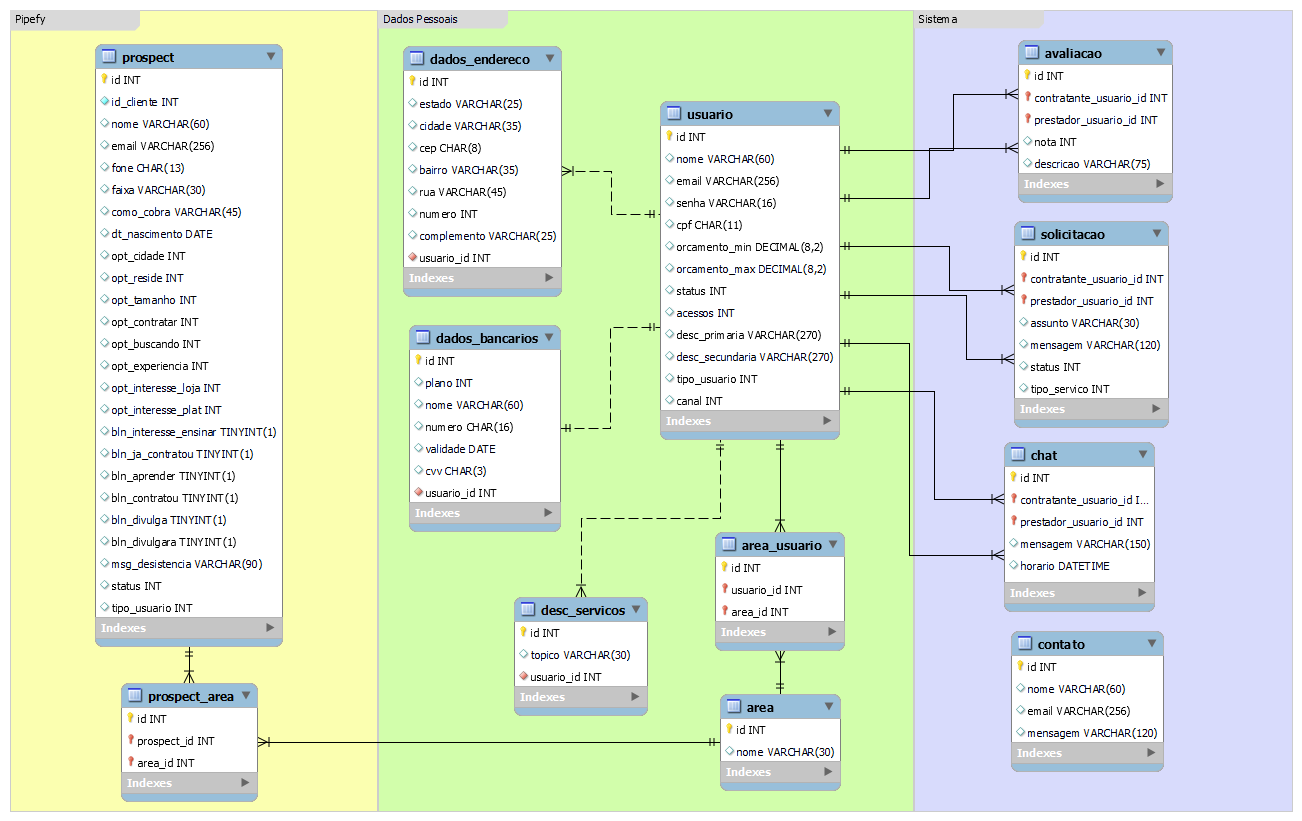
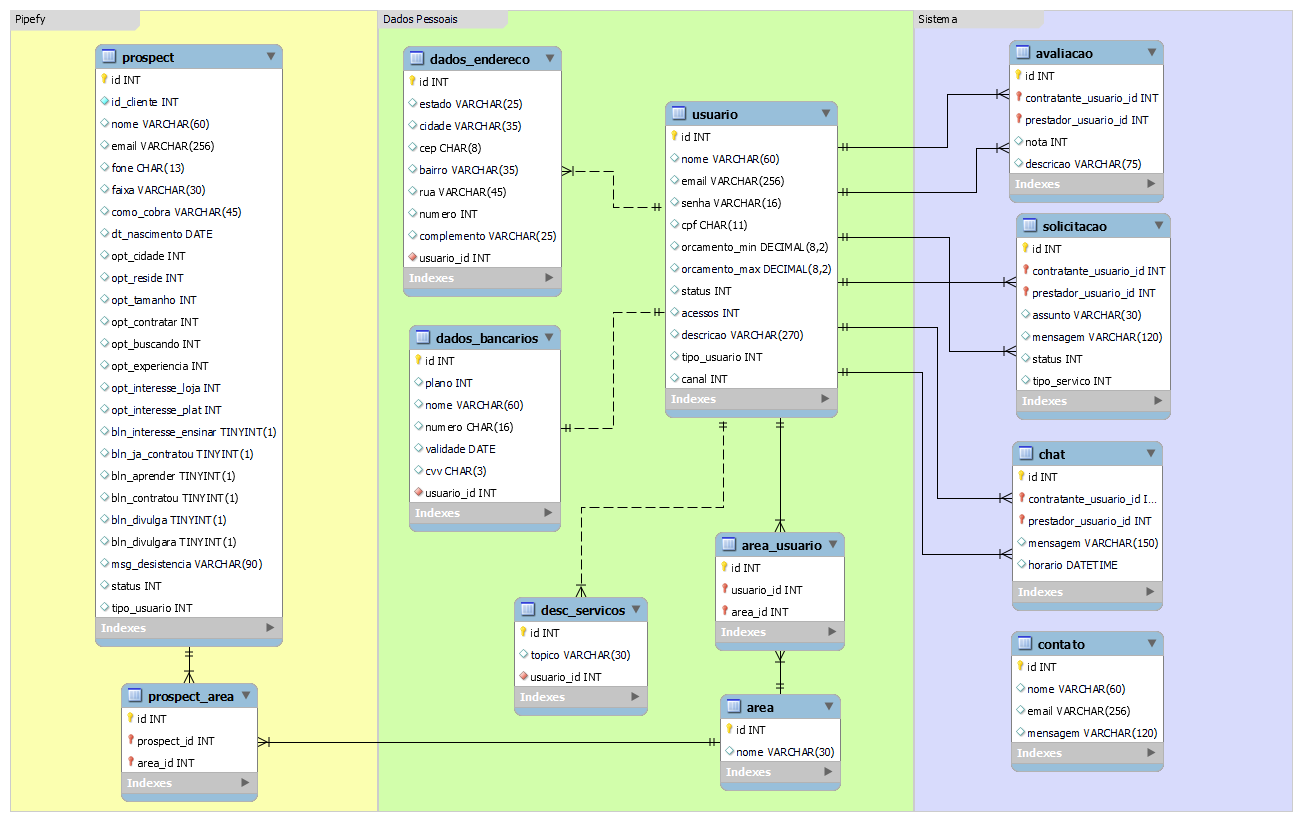
novo banco

diff --git a/restApi-oficial/src/main/kotlin/manuall/restApioficial/models/Prospect.kt b/restApi-oficial/src/main/kotlin/manuall/restApioficial/models/Prospect.kt
@@ -1,0 +1,80 @@
+package manuall.restApioficial.models
+
+import java.util.Date
+import javax.persistence.*
+
+@Entity
+@Table(name = "prospect")
+data class Prospect (
+
+        @field:Id
+        @field:GeneratedValue(strategy = GenerationType.IDENTITY)
+        @Column(name = "id")
+        val id:Int,
+
+        @Column(name = "id_cliente")
+        val idCliente:Int,
+
+        @Column(name = "nome", length = 60)
+        val nome:String,
+
+        @Column(name = "email", length = 256)
+        val email:String,
+
+        @Column(name = "fone", length = 13)
+        val fone:String,
+
+        @Column(name = "como_cobra", length = 45)
+        val comoCobra:String,
+
+        @Column(name = "dt_nascimento")
+        val dtNascimento:Date,
+
+        @Column(name = "opt_reside")
+        val optReside:Int,
+
+        @Column(name = "opt_tamanho")
+        val optTamanho:Int,
+
+        @Column(name = "opt_contratar")
+        val optContratar:Int,
+
+        @Column(name = "opt_buscando")
+        val optBuscando:Int,
+
+        @Column(name = "opt_experiencia")
+        val optExperiencia:Int,
+
+        @Column(name = "opt_interesse_loja")
+        val optInteresseLoja:Int,
+
+        @Column(name = "opt_interesse_plat")
+        val optInteressePlat:Int,
+
+        @Column(name = "bln_interesse_ensinar")
+        val blnInteresseEnsinar:Boolean,
+
+        @Column(name = "bln_ja_contratou")
+        val blnJaContratou:Boolean,
+
+        @Column(name = "bln_aprender")
+        val blnAprender:Boolean,
+
+        @Column(name = "bln_contratou")
+        val blnContratou:Boolean,
+
+        @Column(name = "bln_divulga")
+        val blnDivulga:Boolean,
+
+        @Column(name = "bln_divulgara")
+        val blnDivulgara:Boolean,
+
+        @Column(name = "msg_desistencia", length = 90)
+        val msgDesistencia:String,
+
+        @Column(name = "status")
+        val status:Int,
+
+        @Column(name = "tipo_usuario")
+        val tipoUsuario:Int,
+)

diff --git a/restApi-oficial/src/main/kotlin/manuall/restApioficial/controllers/UsuarioController.kt b/restApi-oficial/src/main/kotlin/manuall/restApioficial/controllers/UsuarioController.kt
@@ -9,7 +9,6 @@ import org.springframework.http.ResponseEntity
 import org.springframework.web.bind.annotation.*
 import javax.transaction.Transactional
 
-
 @CrossOrigin("http://localhost:3000")
 @RestController
 @RequestMapping("/usuarios")
@@ -39,7 +38,7 @@ class UsuarioController(
     fun atualizarSenha(@RequestBody alterSenhaRequest: AlterSenhaRequest): ResponseEntity<Usuario?> {
         val usuario: Usuario =
             usuarioRepository.findById(alterSenhaRequest.id).orElseThrow()
-        usuario.nome = alterSenhaRequest.senha
+        usuario.senha = alterSenhaRequest.senha
         return ResponseEntity.status(200).body(usuarioRepository.save(usuario))
     }
 
@@ -47,8 +46,7 @@ class UsuarioController(
     fun atualizarDesc(@RequestBody alterDescRequest: AlterDescRequest): ResponseEntity<Usuario?> {
         val usuario: Usuario =
             usuarioRepository.findById(alterDescRequest.id).orElseThrow()
-        usuario.nome = alterDescRequest.desc_primaria
-        usuario.nome = alterDescRequest.desc_secundaria
+        usuario.descricao = alterDescRequest.descricao
         return ResponseEntity.status(200).body(usuarioRepository.save(usuario))
     }
 

diff --git a/restApi-oficial/src/main/kotlin/manuall/restApioficial/models/Usuario.kt b/restApi-oficial/src/main/kotlin/manuall/restApioficial/models/Usuario.kt
@@ -12,13 +12,13 @@ data class Usuario (
     var id:Int,
 
     @Column(name = "nome", length = 60)
-    var nome:String,
+    val nome:String,
 
     @Column(name = "email", length = 256)
     val email:String,
 
     @Column(name = "senha", length = 16)
-    val senha:String,
+    var senha:String,
 
     @Column(name = "cpf", length = 11)
     val cpf:String,
@@ -35,12 +35,12 @@ data class Usuario (
     @Column(name = "acessos")
     val acessos:Int,
 
-    @Column(name = "desc_primaria", length = 270)
-    val descPrimaria:String,
-
-    @Column(name = "desc_secundaria", length = 270)
-    val descSecundaria:String,
+    @Column(name = "descricao", length = 270)
+    var descricao:String,
 
     @Column(name = "tipo_usuario")
-    val tipoUsuario:Int
+    val tipoUsuario:Int,
+
+    @Column(name = "canal")
+    val canal:Int
 )

diff --git a/restApi-oficial/src/main/kotlin/manuall/restApioficial/controllers/DescServicosController.kt b/restApi-oficial/src/main/kotlin/manuall/restApioficial/controllers/DescServicosController.kt
@@ -6,12 +6,12 @@ import org.springframework.web.bind.annotation.*
 
 @CrossOrigin("http://localhost:3000")
 @RestController
-@RequestMapping("/descservicos")
-class DescServicosController
-    (val DescServicosRepository: DescServicosRepository)
-{
+@RequestMapping("/descServicos")
+class DescServicosController(
+        val descServicosRepository: DescServicosRepository
+) {
     @GetMapping("/{id}")
     fun buscarDescServicosPorId(@PathVariable id: Int): DescServicos? {
-        return DescServicosRepository.findById(id).orElseThrow()
+        return descServicosRepository.findById(id).orElseThrow()
     }
 }

diff --git a/restApi-oficial/src/main/kotlin/manuall/restApioficial/controllers/AreaUsuarioController.kt b/restApi-oficial/src/main/kotlin/manuall/restApioficial/controllers/AreaUsuarioController.kt
@@ -7,11 +7,11 @@ import org.springframework.web.bind.annotation.*
 @CrossOrigin("http://localhost:3000")
 @RestController
 @RequestMapping("/areausuario")
-class AreaUsuarioController
-    (val AreaUsuarioRepository: AreaUsuarioRepository)
-{
+class AreaUsuarioController (
+        val areaUsuarioRepository: AreaUsuarioRepository
+) {
     @GetMapping("/{id}")
     fun buscarAreaUsuarioPorId(@PathVariable id: Int): AreaUsuario? {
-        return AreaUsuarioRepository.findById(id).orElseThrow()
+        return areaUsuarioRepository.findById(id).orElseThrow()
     }
 }

diff --git a/restApi-oficial/src/main/kotlin/manuall/restApioficial/controllers/DadosBancariosController.kt b/restApi-oficial/src/main/kotlin/manuall/restApioficial/controllers/DadosBancariosController.kt
@@ -6,10 +6,10 @@ import org.springframework.web.bind.annotation.*
 
 @CrossOrigin("http://localhost:3000")
 @RestController
-@RequestMapping("/dadosbancarios")
-class DadosBancariosController
-    (val dadosBancariosRepository: DadosBancariosRepository)
-{
+@RequestMapping("/dadosBancarios")
+class DadosBancariosController(
+        val dadosBancariosRepository: DadosBancariosRepository
+) {
     @GetMapping("/{id}")
     fun buscarDadosBancariosPorId(@PathVariable id: Int): DadosBancarios? {
         return dadosBancariosRepository.findById(id).orElseThrow()

diff --git a/restApi-oficial/src/main/kotlin/manuall/restApioficial/controllers/DadosEnderecoController.kt b/restApi-oficial/src/main/kotlin/manuall/restApioficial/controllers/DadosEnderecoController.kt
@@ -6,10 +6,10 @@ import org.springframework.web.bind.annotation.*
 
 @CrossOrigin("http://localhost:3000")
 @RestController
-@RequestMapping("/dadosendereco")
-class DadosEnderecoController
-    (val dadosEnderecoRepository: DadosEnderecoRepository)
-{
+@RequestMapping("/dadosEndereco")
+class DadosEnderecoController(
+        val dadosEnderecoRepository: DadosEnderecoRepository
+) {
     @GetMapping("/{id}")
     fun buscarDadosEnderecoPorId(@PathVariable id: Int): DadosEndereco? {
         return dadosEnderecoRepository.findById(id).orElseThrow()

diff --git a/restApi-oficial/src/main/kotlin/manuall/restApioficial/models/Chat.kt b/restApi-oficial/src/main/kotlin/manuall/restApioficial/models/Chat.kt
@@ -7,16 +7,16 @@ import javax.persistence.*
 @Table(name = "chat")
 data class Chat (
 
+    @field:Id
+    @field:GeneratedValue(strategy = GenerationType.IDENTITY)
+    @Column(name = "id")
+    val id:Int,
+
     @ManyToOne
     val contratanteUsuario:Usuario,
 
     @ManyToOne
     val prestadorUsuario:Usuario,
-
-    @field:Id
-    @field:GeneratedValue(strategy = GenerationType.IDENTITY)
-    @Column(name = "id")
-    val id:Int,
 
     @Column(name = "mensagem", length = 150)
     val mensagem:String,

diff --git a/restApi-oficial/src/main/kotlin/manuall/restApioficial/models/Avaliacao.kt b/restApi-oficial/src/main/kotlin/manuall/restApioficial/models/Avaliacao.kt
@@ -6,16 +6,16 @@ import javax.persistence.*
 @Table(name = "avaliacao")
 data class Avaliacao (
 
+    @field:Id
+    @field:GeneratedValue(strategy = GenerationType.IDENTITY)
+    @Column(name = "id")
+    val id:Int,
+
     @ManyToOne
     val contratanteUsuario:Usuario,
 
     @ManyToOne
     val prestadorUsuario:Usuario,
-
-    @field:Id
-    @field:GeneratedValue(strategy = GenerationType.IDENTITY)
-    @Column(name = "id")
-    val id:Int,
 
     @Column(name = "nota")
     val nota:Int,

diff --git a/restApi-oficial/src/main/kotlin/manuall/restApioficial/controllers/AreaController.kt b/restApi-oficial/src/main/kotlin/manuall/restApioficial/controllers/AreaController.kt
@@ -12,10 +12,12 @@ import org.springframework.web.bind.annotation.RestController
 @CrossOrigin("http://localhost:3000")
 @RestController
 @RequestMapping("/area")
-class AreaController(val repository: AreaRepository) {
+class AreaController(
+        val areaRepository: AreaRepository
+) {
 
     @GetMapping("/{id}")
     fun buscarAreaPorId(@PathVariable id: Int): Area? {
-        return repository.findById(id).orElseThrow()
+        return areaRepository.findById(id).orElseThrow()
     }
 }

diff --git a/restApi-oficial/src/main/kotlin/manuall/restApioficial/controllers/ContatoController.kt b/restApi-oficial/src/main/kotlin/manuall/restApioficial/controllers/ContatoController.kt
@@ -7,9 +7,9 @@ import org.springframework.web.bind.annotation.*
 @CrossOrigin("http://localhost:3000")
 @RestController
 @RequestMapping("/contato")
-class ContatoController
-    (val contatoRepository: ContatoRepository)
-{
+class ContatoController(
+        val contatoRepository: ContatoRepository
+) {
     @GetMapping("/{id}")
     fun buscarContatoPorId(@PathVariable id: Int): Contato? {
         return contatoRepository.findById(id).orElseThrow()

diff --git a/restApi-oficial/src/main/kotlin/manuall/restApioficial/models/AreaUsuario.kt b/restApi-oficial/src/main/kotlin/manuall/restApioficial/models/AreaUsuario.kt
@@ -6,14 +6,14 @@ import javax.persistence.*
 @Table(name = "area_usuario")
 data class AreaUsuario (
 
+    @field:Id
+    @field:GeneratedValue(strategy = GenerationType.IDENTITY)
+    @Column(name = "id")
+    val id:Int,
+
     @ManyToOne
     val usuario:Usuario,
 
     @ManyToOne
-    val area:Area,
-
-    @field:Id
-    @field:GeneratedValue(strategy = GenerationType.IDENTITY)
-    @Column(name = "id")
-    val id:Int
+    val area:Area
 )
